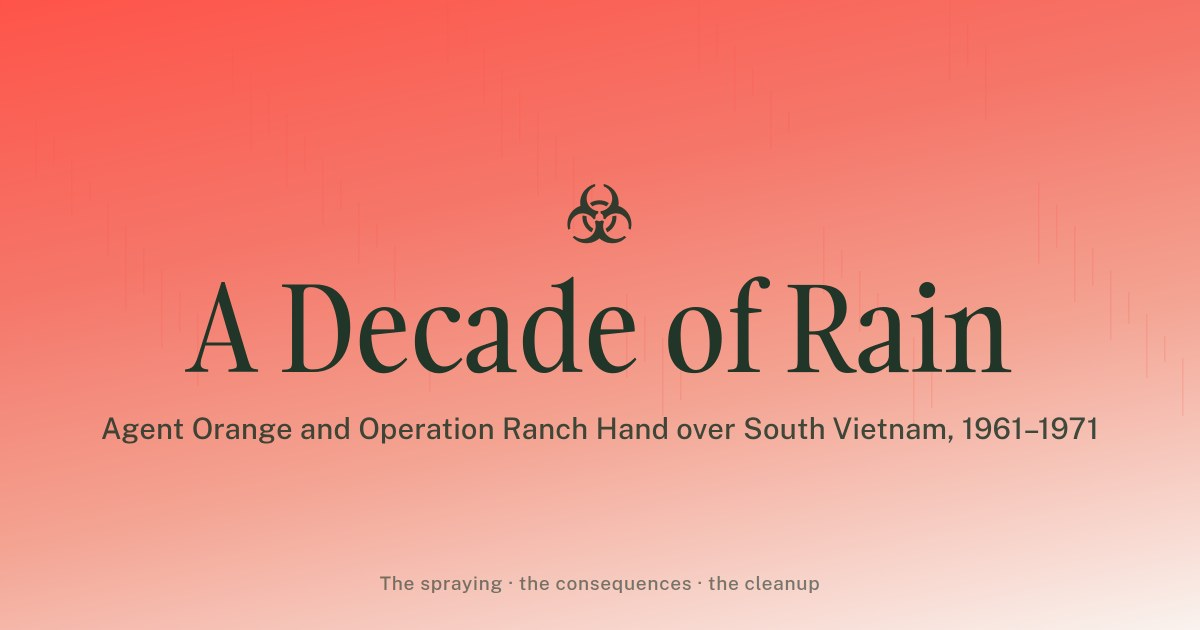
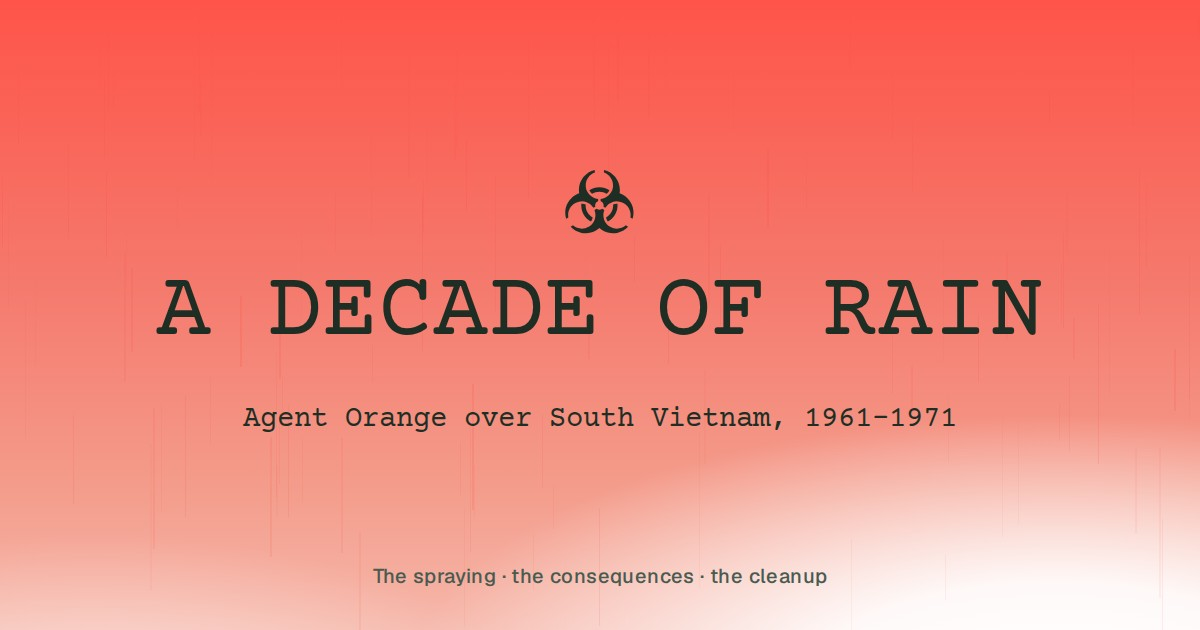
The pre-submission pass: one name for the Atlas, an honest count, a living link, the hero's face on the share card
Read as a juror would, in one sitting, the live site had a handful of
things that were each a minute to fix and would each have cost more than
a minute of trust.

The record had three names. The Story's last node called it the Archive,
the Atlas page called itself the Herbicide Atlas of Vietnam, and the
buttons said Record. The node's label and body say Atlas now, and the
page's browser title says The Herbicide Atlas; the route stays /archive.

The Atlas's counter said "8,360 Spray Runs" under a Story that had just
said "11,273 spray runs on file". Counted: the 8,360 is the rows of the
point file that carry a gallonage, and HERBS books a mission's whole
volume once, against the first waypoint of its first track, so the number
is missions that logged a spray, not runs. The 11,273 is the Mission + Run
pairs (8,545 drawn as lines, 2,730 as single points, 11,273 together).
The Story's figure was right and the Atlas's label was not; it reads
Missions now.

The sources ledger's USAID fact sheet pointed at 2017-2020.usaid.gov,
which went dark with the agency in 2025. It points at the Internet
Archive's copy of 1 February 2025. The VAVA card said chapters in all 63
provinces; Vietnam has had 34 since July 2025, so it says every province.
The ecosystems note ended "await a spray-track overlay", a working note
in a caption; it says the shares are estimates. The colophon credited
Playfair Display, which the typewriter switch retired from every visible
[…]

diff --git a/src/content/facts/events.ts b/src/content/facts/events.ts
@@ -232,7 +232,7 @@ export const FACTS_EVENTS: StoryEvent[] = [
   {
     id: 'record',
     name: 'The Record',
-    period: 'The Archive',
+    period: 'The Atlas',
     // The story's own last date: the handover shows the whole record at once,
     // so the playhead sits where the reckoning left it.
     date: '1971-12-31',
@@ -246,7 +246,7 @@ export const FACTS_EVENTS: StoryEvent[] = [
     // Cut from seven lines to five on a phone (the phone pass, PR #195): the
     // years and the run count go, the stat pill under it carries the count,
     // and the three verbs stay.
-    body: 'Everything so far was a summary. Beneath it lies the HERBS tape, the U.S. military’s own flight log, every run a chain of waypoints recorded by the crews. The Archive draws them as they were flown: filter by herbicide, play the decade month by month, trace any flight to the day it was logged.',
+    body: 'Everything so far was a summary. Beneath it lies the HERBS tape, the U.S. military’s own flight log, every run a chain of waypoints recorded by the crews. The Atlas draws them as they were flown: filter by herbicide, play the decade month by month, trace any flight to the day it was logged.',
     stat: { value: '11,273', label: 'spray runs on file' },
     cta: { label: 'Explore the Record', to: '/archive' },
   },

diff --git a/src/content/facts/ecosystems.ts b/src/content/facts/ecosystems.ts
@@ -54,6 +54,6 @@ export const ECOSYSTEMS = {
   scaleUnit: 'thousand ha',
   scaleSprayed: 'Area sprayed once or more',
   scaleTotal: 'Area of type',
-  note: 'Vegetation map redrawn from the war-era U.S. land-use survey (after Westing / SIPRI). Well-documented shares: dense forest about 35% and mangrove about 36% sprayed one or more times (Westing 1971; Stellman et al. 2003, about 105,000 of 291,000\u00A0ha), plus some 200,000\u00A0ha of crop spraying, chiefly rice (NAS 1974). Types marked “est.” are not separately tabulated in the literature and await a spray-track overlay.',
+  note: 'Vegetation map redrawn from the war-era U.S. land-use survey (after Westing / SIPRI). Well-documented shares: dense forest about 35% and mangrove about 36% sprayed one or more times (Westing 1971; Stellman et al. 2003, about 105,000 of 291,000\u00A0ha), plus some 200,000\u00A0ha of crop spraying, chiefly rice (NAS 1974). Types marked “est.” are not separately tabulated in the literature; their shares are estimates.',
   mapAlt: 'Map of South Vietnam shaded by vegetation type: forest, mangrove, rice, grassland, rubber and marsh.',
 }

diff --git a/src/content/close.ts b/src/content/close.ts
@@ -30,7 +30,7 @@ export const CLOSE_ACTIONS: CloseAction[] = [
   {
     name: 'VAVA',
     role: 'Victims’ Association',
-    desc: 'The Vietnam Association for Victims of Agent Orange: 400,000 members, chapters in all 63 provinces, direct support to affected families.',
+    desc: 'The Vietnam Association for Victims of Agent Orange: 400,000 members, chapters in every province, direct support to affected families.',
     action: 'Donate',
     url: 'http://www.vava.org.vn/',
   },
@@ -105,7 +105,7 @@ export const COLOPHON = {
   lines: [
     'A story about what fell, what it broke, and what it takes to clean it up.',
     'Built with React, MapLibre GL and Scrollama.',
-    'Set in Playfair Display and Geist.',
+    'Set in Courier Prime and Geist.',
   ],
   credit: 'Designed and built by Si Zheng',
   email: 'zhengsi0709@gmail.com',

diff --git a/index.html b/index.html
@@ -28,7 +28,7 @@
     <meta property="og:image:height" content="630" />
     <meta
       property="og:image:alt"
-      content="A Decade of Rain — Agent Orange and Operation Ranch Hand over South Vietnam, 1961–1971."
+      content="A Decade of Rain — Agent Orange over South Vietnam, 1961–1971."
     />
 
     <!-- Twitter -->
@@ -41,7 +41,7 @@
     <meta name="twitter:image" content="https://adecadeofrain.sizheng.me/og-image.jpg" />
     <meta
       name="twitter:image:alt"
-      content="A Decade of Rain — Agent Orange and Operation Ranch Hand over South Vietnam, 1961–1971."
+      content="A Decade of Rain — Agent Orange over South Vietnam, 1961–1971."
     />
   </head>
   <body>

diff --git a/src/content/sources.ts b/src/content/sources.ts
@@ -80,7 +80,9 @@ export const SOURCES: Record<string, Source> = {
     id: 'usaid_danang',
     title: 'Dioxin Remediation at Danang Airport and Bien Hoa Airbase Area (fact sheet)',
     publisher: 'USAID',
-    url: 'https://2017-2020.usaid.gov/vietnam/documents/fact-sheet-dioxin-remediation-danang-airport-and-bien-hoa-airbase-area',
+    // USAID's own site went dark in 2025; this is the Internet Archive's copy
+    // of the page as it stood on 1 February 2025.
+    url: 'https://web.archive.org/web/20250201013955/https://2017-2020.usaid.gov/vietnam/documents/fact-sheet-dioxin-remediation-danang-airport-and-bien-hoa-airbase-area',
   },
   usembassy_bienhoa: {
     id: 'usembassy_bienhoa',

diff --git a/src/components/Timeline.tsx b/src/components/Timeline.tsx
@@ -512,7 +512,7 @@ export default function Timeline({
           {volume && (
             <span className="explorer-statline">
               <span className="stat-pair">
-                <strong style={statStyle}>{missionCount.toLocaleString()}</strong> Spray Runs
+                <strong style={statStyle}>{missionCount.toLocaleString()}</strong> Missions
               </span>
               <span className="stat-pair">
                 <strong style={statStyle}>{fmtGallons(gallons)}</strong> Gallons

diff --git a/src/pages/Archive.tsx b/src/pages/Archive.tsx
@@ -8,7 +8,7 @@ import MapView from '../components/MapView'
 export default function Archive() {
   useEffect(() => {
     const prev = document.title
-    document.title = 'The Archive · A Decade of Rain'
+    document.title = 'The Herbicide Atlas · A Decade of Rain'
     return () => {
       document.title = prev
     }
